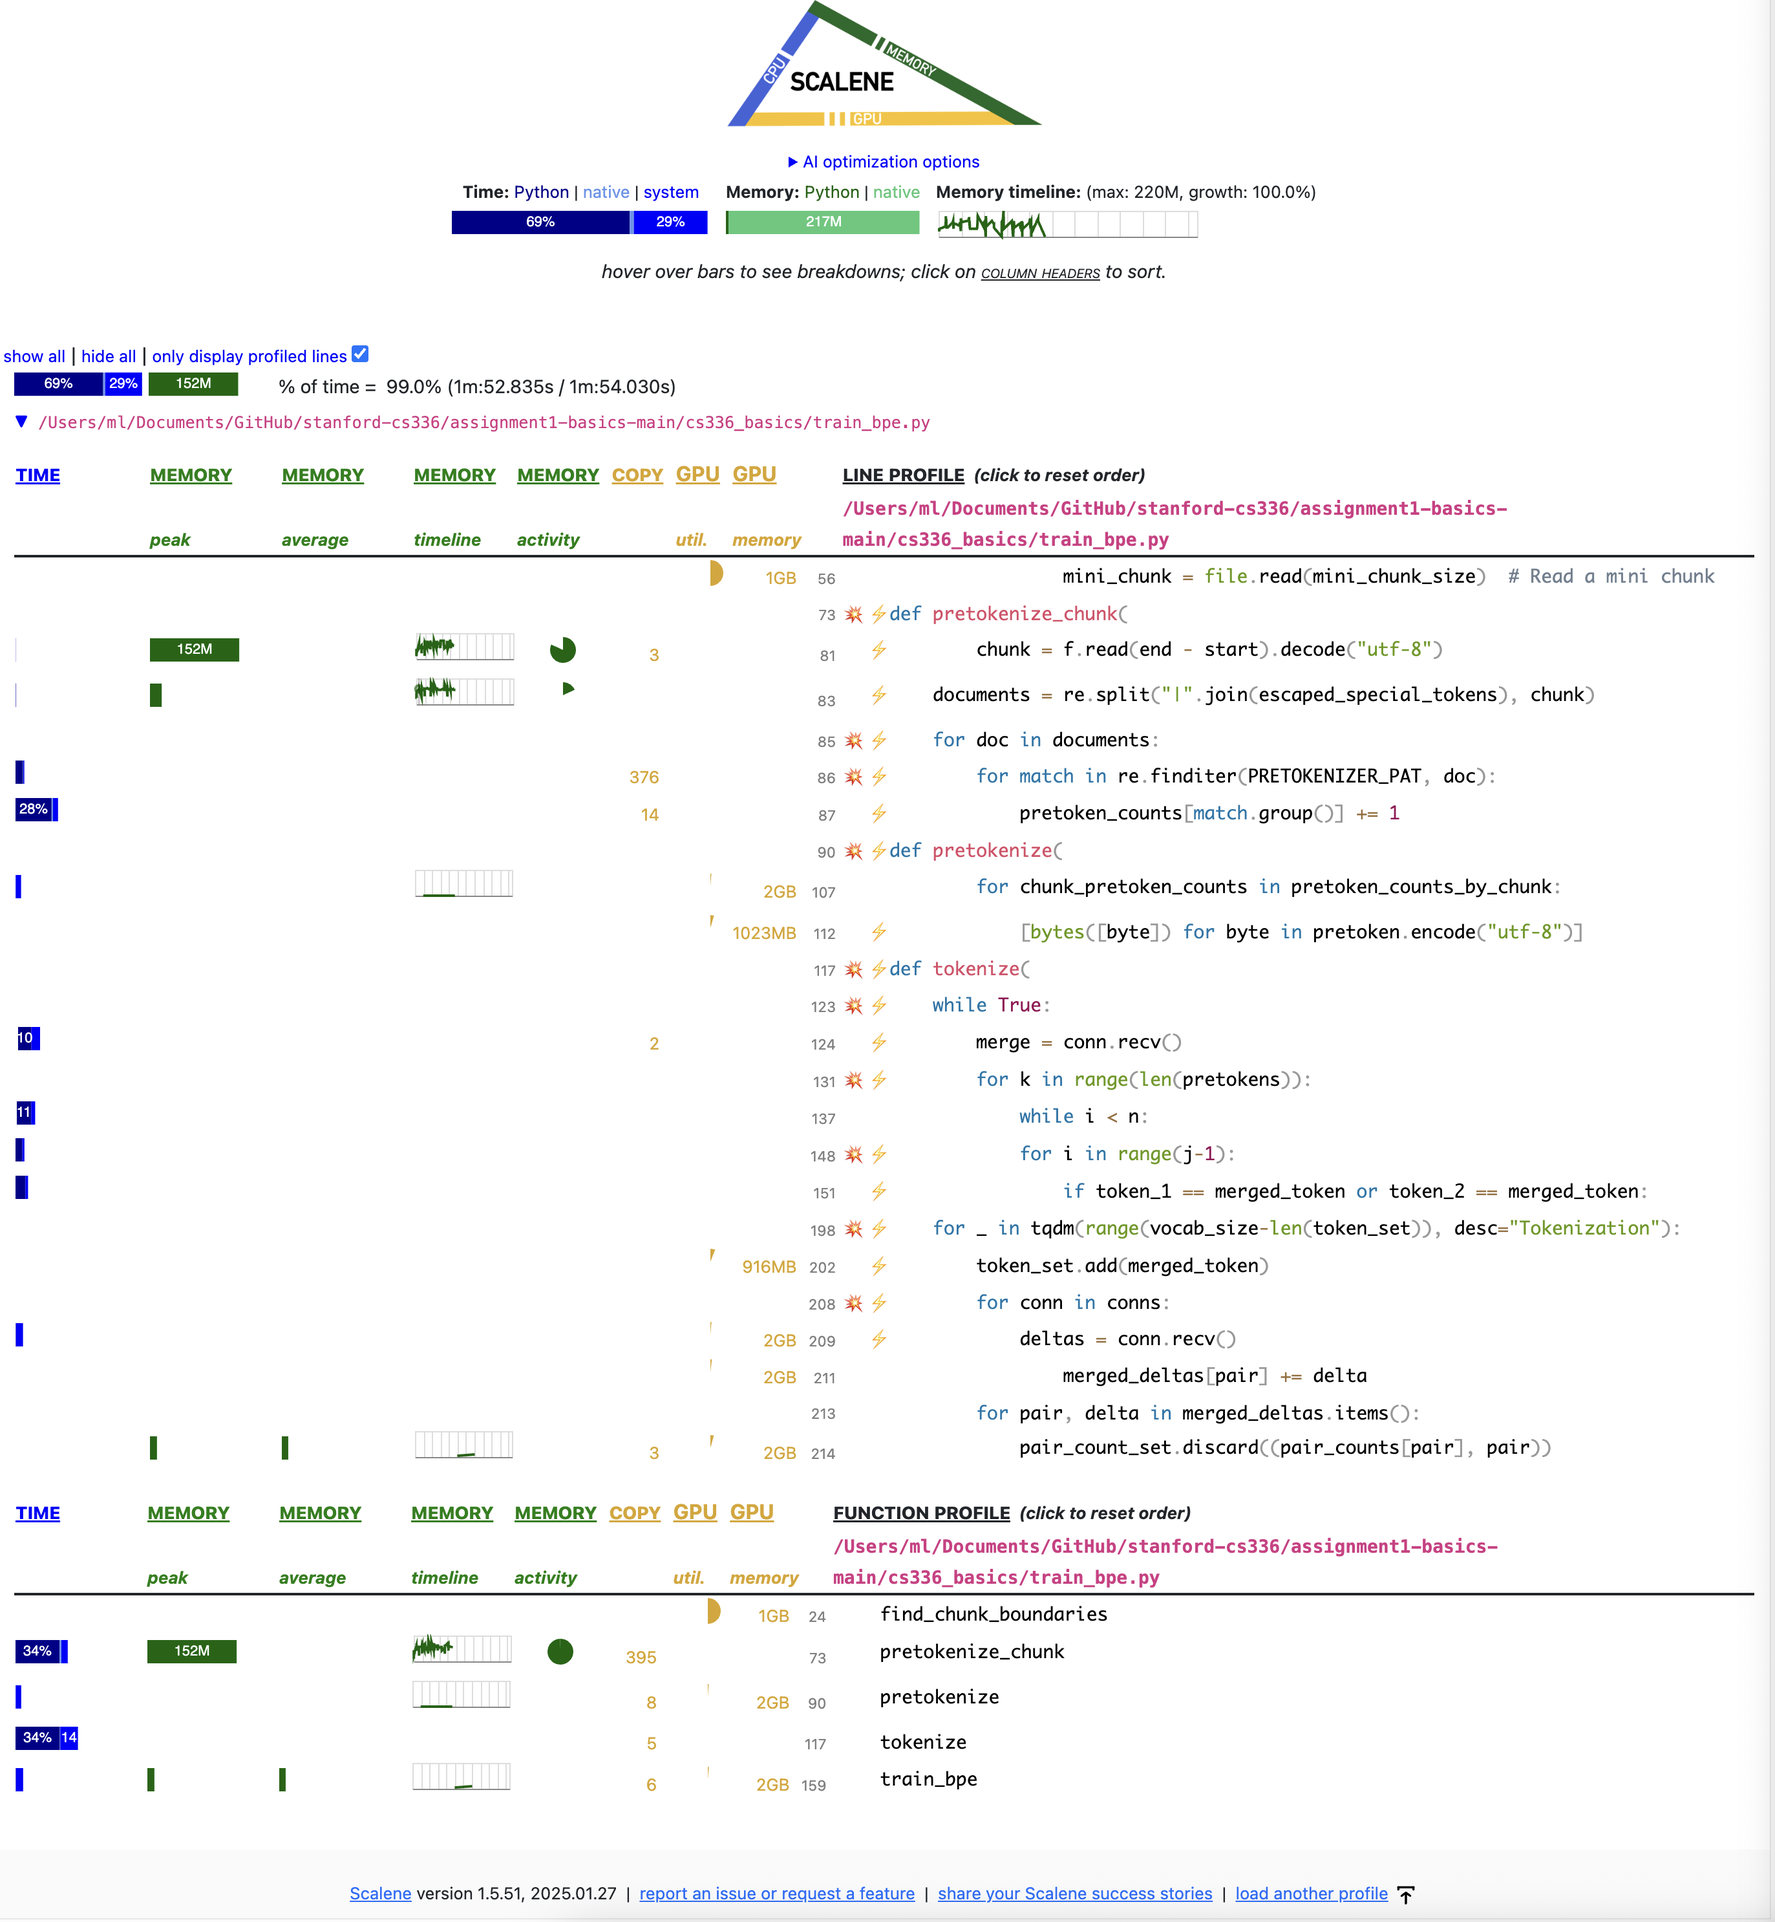
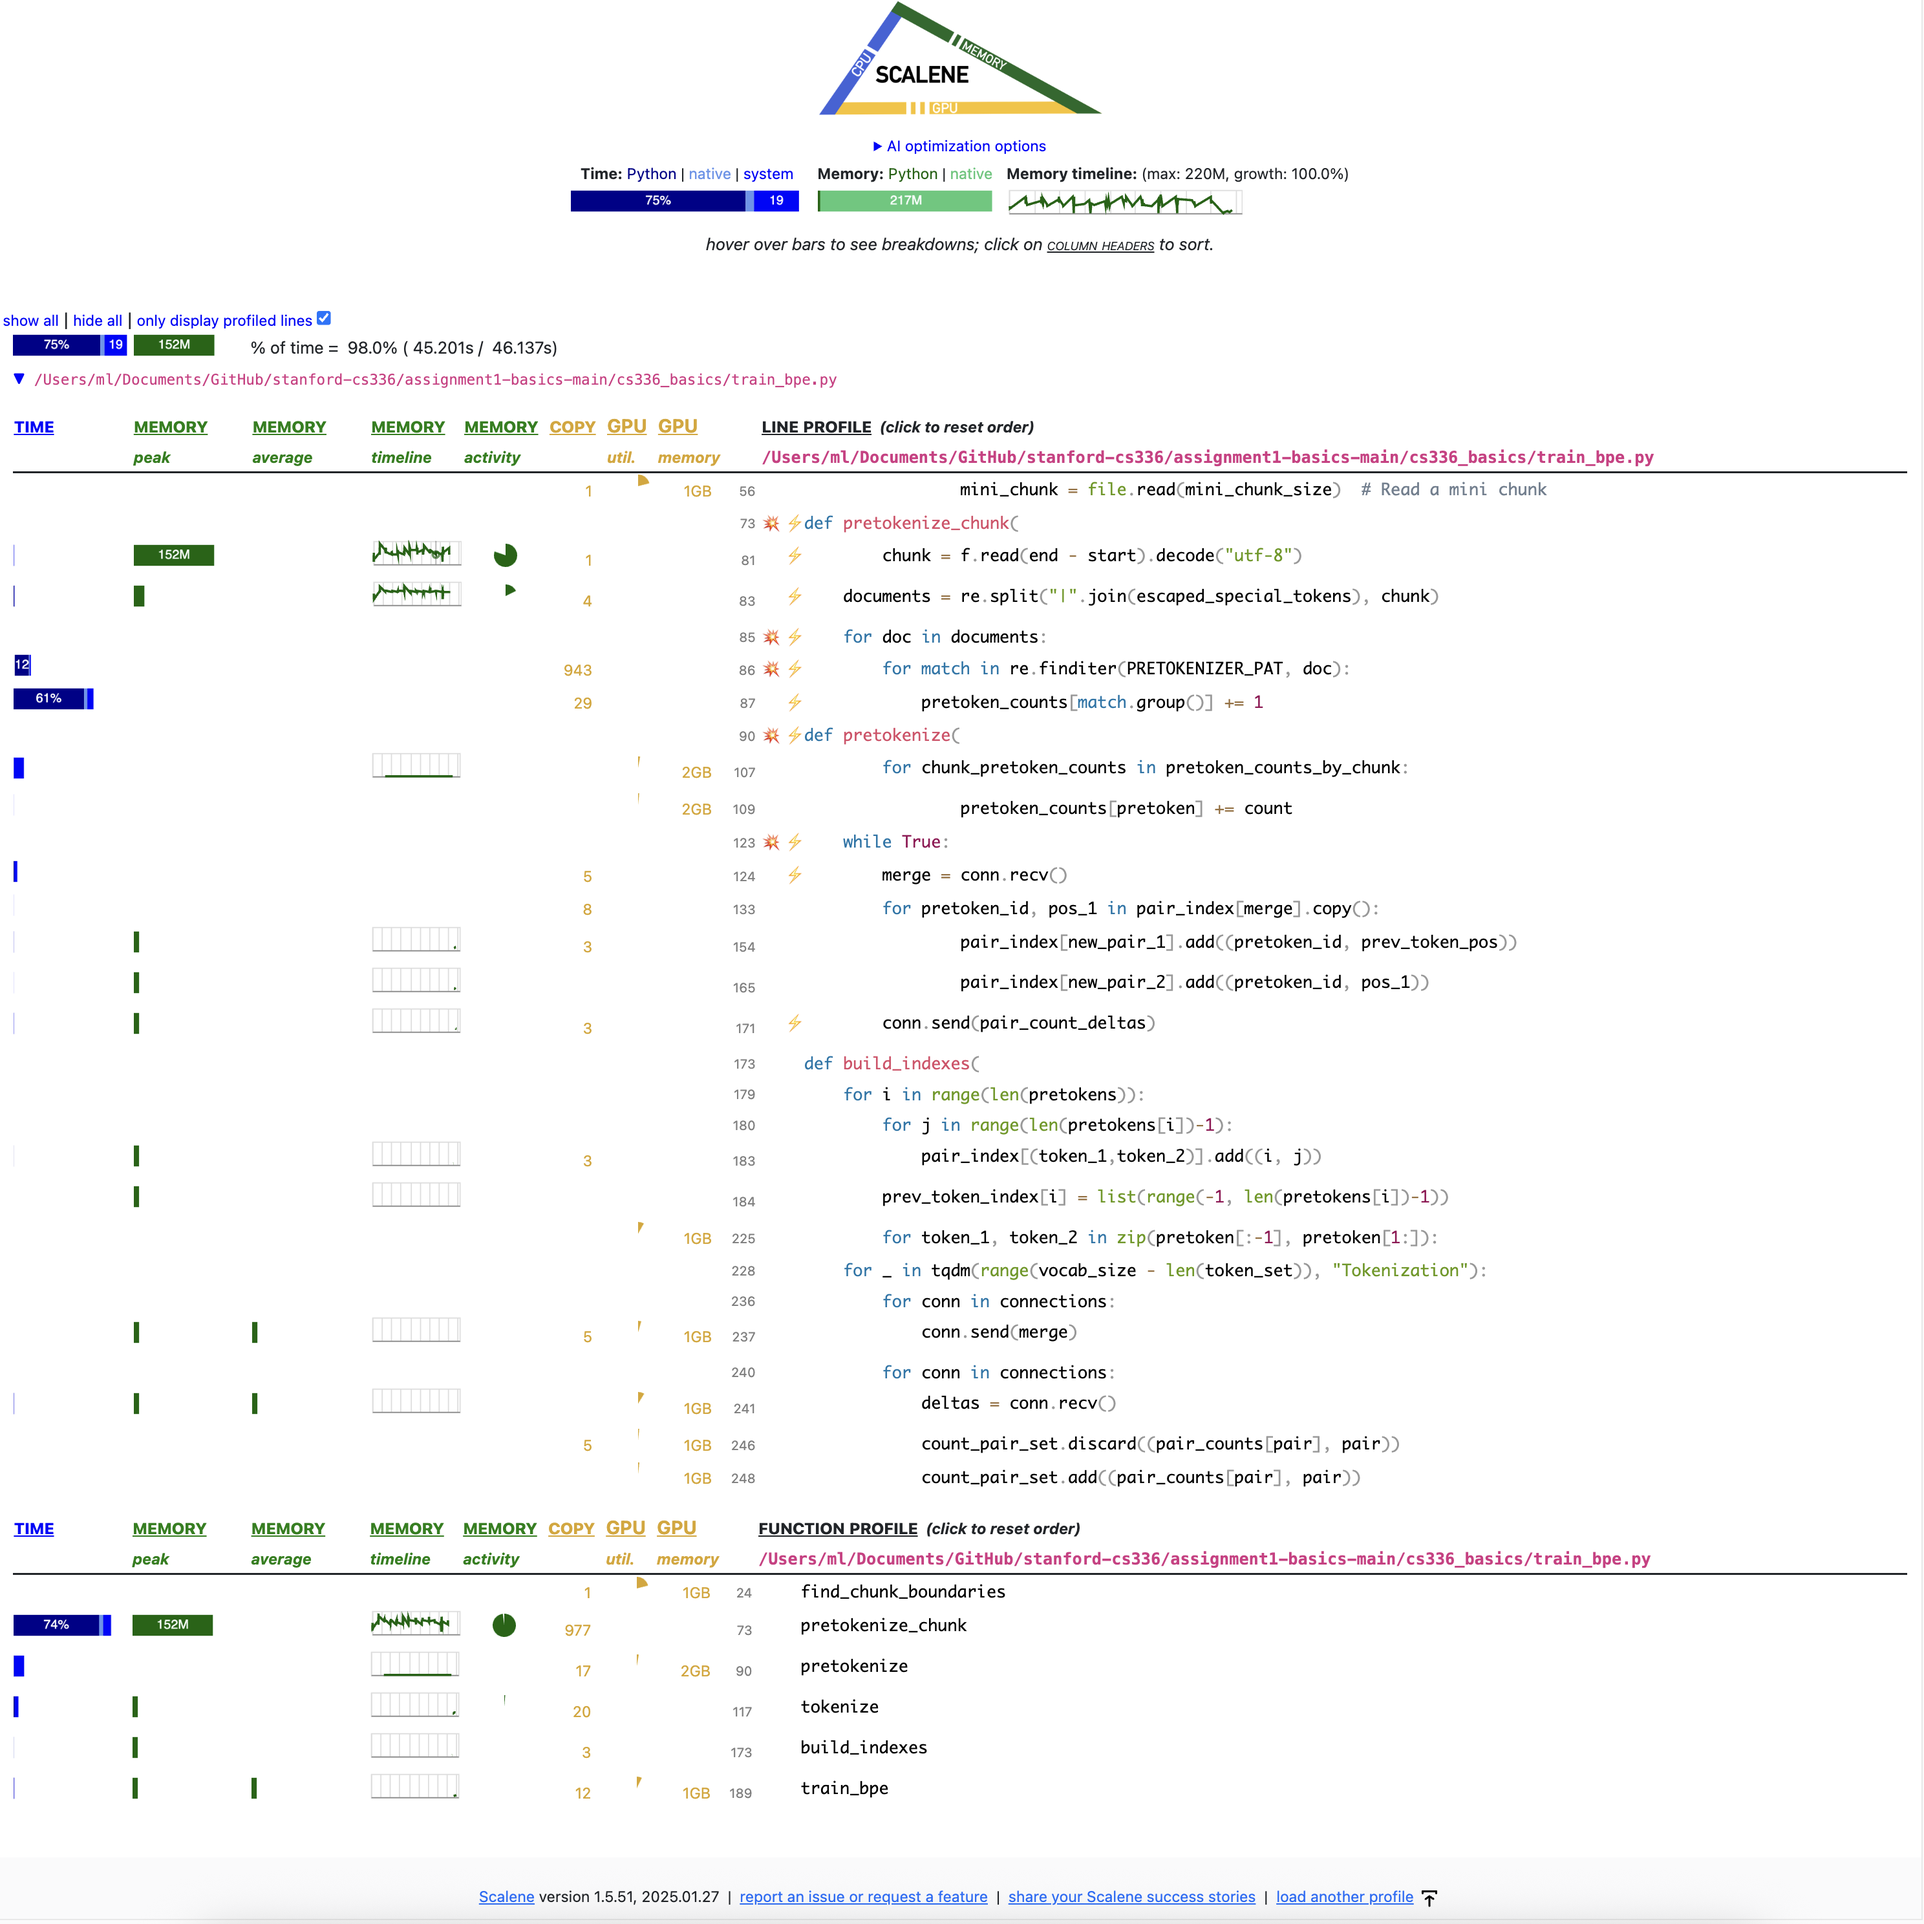
BPE: additional writeups and wrap up BPE training

diff --git a/assignment1-basics-main/cs336_basics/train_bpe.py b/assignment1-basics-main/cs336_basics/train_bpe.py
@@ -258,12 +258,12 @@ def train_bpe(
     return vocab, merges
 
 if __name__ == "__main__":
-    #dataset = "owt_train"
-    dataset = "TinyStoriesV2-GPT4-train"
+    dataset = "owt_train"
+    # dataset = "TinyStoriesV2-GPT4-train"
     start_time = time.time()
     vocab, merges = train_bpe(
         f"data/{dataset}.txt",
-        10_000,
+        32_000,
         ["<|endoftext|>"],
     )
 
